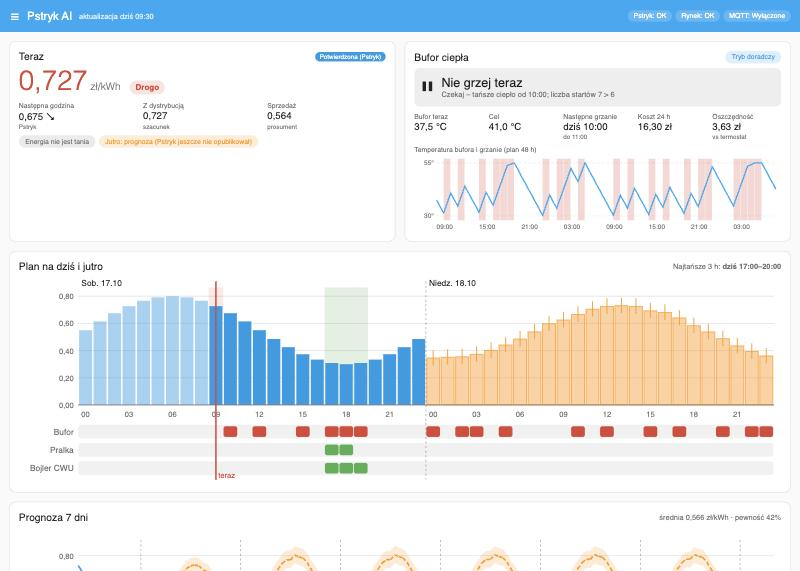
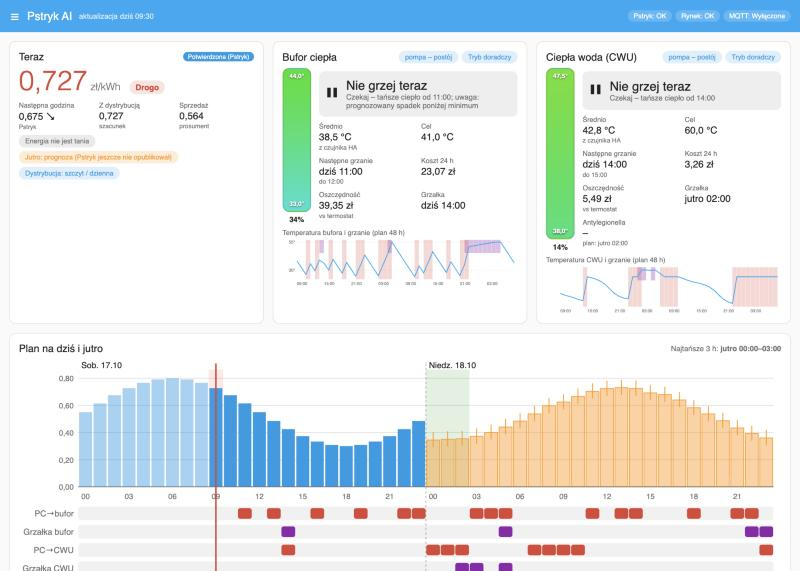
Docs for v0.4.0: heat storages, CWU, spending, MQTT commands, Loxone

diff --git a/docs/HEAT_STORAGES.md b/docs/HEAT_STORAGES.md
@@ -1,0 +1,72 @@
+# Heat storages, heaters and hot water (CWU)
+
+Every feature below is **off by default** and can be switched on in *Configure* (options) – and most of them also at runtime with a
+switch entity. A feature switched off in the options cannot be switched on by its runtime switch.
+
+## 1. Buffer with top and bottom sensors
+*Configure → Thermal buffer*
+
+| Option | Meaning |
+|---|---|
+| Buffer TOP – HA sensor / exact MQTT topic / JSON key | required (migrated from the former single "buffer temperature" option) |
+| Buffer BOTTOM – HA sensor / exact MQTT topic / JSON key | optional |
+| Heat pump maximum supply temperature | the heat pump cannot heat the storage above this (default 55 °C) |
+
+* Mean temperature = (top + bottom) / 2 drives the energy balance and the charge in % (`Naładowanie bufora`).
+* The comfort check uses the **top** layer (mean + half the measured difference), because the top feeds the heating circuits.
+* Without a bottom sensor the top temperature is used as before.
+* Upgrading from ≤ 0.3: the existing buffer topic/entity/JSON key are moved automatically to the *top* options (config entry 1.1 → 1.2).
+
+## 2. Auxiliary heater (electric or gas)
+*Configure → Buffer heater* and *Configure → CWU heater*
+
+| Option | Meaning |
+|---|---|
+| Use the heater | on/off (runtime switch *Grzałka bufora* / *Grzałka CWU*) |
+| Heater type | electric (efficiency ≈ 1.0) or gas boiler (efficiency ≈ 0.92, cost = gas price per kWh of fuel) |
+| Power steps | heat output stages in kW, e.g. `2,4,6` |
+| Maximum temperature | optional, may be higher than the heat-pump limit (legionella) |
+| Command topic + format | exact topic for Loxone; `1/0` or power in kW; **only published when advisory mode is off** |
+| State topic + JSON key | optional measured state/power of the heater (energy and cost tracking) |
+
+Each hour the optimiser chooses heat pump, heater stage, both or nothing by the cost of *delivered heat*:
+heat pump `price / COP`, electric `price / efficiency`, gas `gas price / efficiency`. Typical results: the element runs at
+negative/very low prices, in hard frost when the COP collapses, or to reach temperatures above the heat-pump limit.
+
+## 3. Hot-water tank (CWU)
+*Configure → Hot water (CWU)*
+
+| Option | Meaning |
+|---|---|
+| Top / bottom sensors | like the buffer |
+| Volume, min/max/target | tank parameters |
+| Ready times + required temperature | e.g. `06:00,19:00` at ≥ 45 °C – the plan guarantees the top layer at these times |
+| Hot-water use per day | litres at 45 °C, distributed with a typical daily profile (or the learned profile) |
+| Heat pump for CWU | `valve` – one heat pump with a switching valve serves the buffer *or* CWU each hour; `none` – CWU is heated only by its heater |
+| CWU priority | CWU is planned first; the buffer gets the remaining heat-pump hours |
+| Valve command topic | optional; payload `buffer` / `dhw` / `idle`; only in control mode |
+| Legionella cycle | reach the legionella temperature (default 60 °C) every N days (default 7), at the cheapest time before the deadline; the heater is used above the heat-pump limit |
+
+Planning ("priority-sequential MPC"): the priority storage is optimised first with the heat pump available every hour; the other storage is
+then optimised with the heat pump only in the remaining hours and with the electric power left under the connection limit.
+
+## 4. Connection power limit
+*Configure → Power limit and metering*: limit in kW, typical base load, optional heat-pump power reading (entity or MQTT, W or kW).
+The heat pump + heaters of both storages + device schedules never exceed the limit in the plan.
+
+## 5. Measured consumption
+With a heat-pump power reading (and heater state topics) the integration integrates energy every update and values it at the current
+price: *Zużycie/Koszt pompy ciepła dziś*, *Zużycie grzałek dziś* (+ month totals in attributes).
+
+## 6. Learning (optional)
+*Configure → Learning*
+* **Heat demand and losses**: from hours without heating (needs a power reading, otherwise the plan is used to detect idle hours),
+  fits building demand per K and standby losses (non-negative least squares).
+* **Hot-water profile**: average draw per hour of day from CWU temperature drops.
+* **COP**: measured/model COP ratio in heat-pump hours (needs power metering).
+* **Use learned values**: applied only after enough samples (≥ 36 hours, COP ≥ 12) and plausibility checks. Results: *Uczenie parametrów*.
+
+## 7. Safety
+* Advisory mode is the default: recommendations only, no commands to your topics.
+* Commands (heaters, valve) are never retained; a missing/stale temperature puts that storage in `fallback` → heaters `0`, valve `idle`.
+* Hardware thermostats, safety temperature limiters and manufacturer limits must stay in Loxone / the devices.

diff --git a/README.md b/README.md
@@ -1,6 +1,6 @@
 # Pstryk AI – Energy Intelligence & Optimization
 
-[![hacs](https://img.shields.io/badge/HACS-Custom-41BDF5.svg)](https://hacs.xyz) ![version](https://img.shields.io/badge/version-0.3.0-blue)
+[![hacs](https://img.shields.io/badge/HACS-Custom-41BDF5.svg)](https://hacs.xyz) ![version](https://img.shields.io/badge/version-0.4.0-blue)
 
 Home Assistant integration for Polish [Pstryk.pl](https://pstryk.pl) customers. It combines **confirmed Pstryk prices** with public market,
 power-system and weather data to build a **rolling 7-day (168 h) probabilistic price forecast**, finds the cheapest periods, plans flexible
@@ -21,6 +21,12 @@ loads and a **heat-pump buffer**, and publishes everything to Home Assistant and
   P10/P50/P90, confidence, live accuracy tracking.
 * Optimisation: cheapest windows across midnight/days, cheapest N hours, most expensive periods, uncertainty-aware postponement,
   device profiles with min run/off times (dynamic programming), thermal buffer MPC with COP(T_out, T_supply) and heat losses.
+* **Heat storages (v0.4)**: buffer and hot-water tank (CWU) with top/bottom sensors, electric/gas heaters with power steps, shared heat
+  pump with switching valve and CWU priority, ready-by times, legionella cycle, connection power limit – all optional.
+* **Pstryk spending**: today, yesterday, this month, month projection, previous month, last 12 months, cost breakdown; optional import
+  into Home Assistant long-term statistics (Energy dashboard).
+* Distribution tariff zones (G11/G12/G12w/G13) and optimisation on the all-in price; PV self-consumption; learning of heat demand,
+  losses, hot-water profile and COP; measured heat-pump consumption and cost; notifications; MQTT heartbeat.
 * **Temperatures from exact MQTT topics** (e.g. published by Loxone): buffer, outdoor and per-device values (DHW tank, EV SOC) with
   JSON-key support, staleness protection and automatic re-planning; devices that already reached their target are not scheduled.
 * Event-aware scheduler: 00:05 rollover, 06:00/18:00 weather, 10:45 Fixing I, **13:00 main calculation**, retries until Pstryk confirms,
@@ -35,7 +41,7 @@ source, the 48-hour plan (prices, cheapest window, buffer heating and device sch
 P10–P90 range, the buffer decision with the planned temperature, device schedules, meter data, forecast quality and data-source status.
 
 ![Pstryk AI panel](docs/images/panel.jpg)
-![Pstryk AI panel – forecast](docs/images/panel-forecast.jpg)
+![Pstryk AI panel – spending](docs/images/panel-spends.jpg)
 
 ## Measured forecast quality
 Rolling-origin backtest on public data (97 origins, 2026): MAE ≈ 85–95 PLN/MWh for days 1–7 with PSE + weather inputs vs 125–136 PLN/MWh
@@ -49,7 +55,7 @@ for the seasonal baseline. Read the caveats in [docs/FORECASTING.md](docs/FORECA
 ## Documentation
 [Installation](docs/INSTALLATION.md) · [Configuration](docs/CONFIGURATION.md) · [Architecture](docs/ARCHITECTURE.md) ·
 [Data sources & licenses](docs/API_SOURCES.md) · [MQTT topics](docs/MQTT_TOPICS.md) · [Forecasting](docs/FORECASTING.md) ·
-[Optimization](docs/OPTIMIZATION.md) · [Troubleshooting](docs/TROUBLESHOOTING.md) · [Research](docs/RESEARCH.md) ·
+[Optimization](docs/OPTIMIZATION.md) · [Heat storages & CWU](docs/HEAT_STORAGES.md) · [Troubleshooting](docs/TROUBLESHOOTING.md) · [Research](docs/RESEARCH.md) ·
 [Loxone example](examples/loxone.md) · [Changelog](CHANGELOG.md)
 
 ## Safety

diff --git a/CHANGELOG.md b/CHANGELOG.md
@@ -2,6 +2,29 @@
 
 All notable changes are documented here. The project follows [Semantic Versioning](https://semver.org/).
 
+## [0.4.0] – 2026-10-17
+All new features are optional and switchable (options; most also with runtime switches).
+### Added
+- Buffer **top/bottom** temperature sensors (MQTT topic or HA entity); automatic migration of the former buffer sensor to *top*
+  (config entry 1.1 → 1.2); stratification-aware comfort; charge % and stored energy.
+- **Auxiliary heaters** for buffer and CWU: electric or gas, power steps, efficiency, gas price, max temperature, command topic
+  (`1/0` or kW, control mode only), state topic for metering; combined heat-pump + heater optimisation by cost of delivered heat.
+- **Hot-water tank (CWU)**: second storage with top/bottom sensors, ready times, daily use profile, shared heat pump with switching
+  valve and priority, valve command topic, **legionella** cycle.
+- **Connection power limit** across heat pump, heaters and device schedules.
+- **Distribution tariff zones** (G11/G12/G12w/G13) and optimisation on the all-in price; zone sensor.
+- **PV self-consumption** (production forecast from radiation, surplus valued at the sell price).
+- **Learning** of building demand, storage losses, hot-water profile and COP; measured heat-pump/heater consumption and cost.
+- **Pstryk spending**: yesterday, previous month, last 12 months (monthly history), average daily cost, month projection, breakdown;
+  MQTT `spends/*`; optional import into HA long-term statistics.
+- **Notifications** (tomorrow's prices, negative prices, local-control fallback, stale data) and MQTT **heartbeat**.
+- Panel: storage cards with layer bar, heater/valve state, legionella, separate timeline lanes (heat pump → buffer/CWU, heaters, PV),
+  spending section with daily/monthly charts.
+### Changed
+- Storage optimiser generalised (heat-pump availability per hour, heater stages, power cap, ready/legionella constraints, PV pricing);
+  heavy planning runs in an executor thread.
+- Daily totals sensors use `total_increasing` (Energy dashboard compatible).
+
 ## [0.3.0] – 2026-10-17
 ### Added
 - **Temperatures from exact MQTT topics**: buffer temperature, outdoor temperature (options *Thermal buffer*) and per-device values

diff --git a/docs/MQTT_TOPICS.md b/docs/MQTT_TOPICS.md
@@ -31,11 +31,27 @@ Publication uses the broker configured in Home Assistant's MQTT integration. Pre
 | `optimizer/buffer/next_start`, `next_stop` | scalar ISO | yes | first heating block |
 | `optimizer/buffer/expected_cost` | scalar PLN | yes | next 24 h |
 | `optimizer/buffer/schedule` | JSON | yes | full plan incl. per-hour steps |
+| `optimizer/buffer/heater/should_run`, `optimizer/buffer/heater/power` | scalar | no / yes | buffer heater recommendation (kW) |
+| `optimizer/buffer/soc` | scalar % | yes | buffer charge |
+| `optimizer/dhw/should_heat` | scalar 1/0 | **no**, expiry | hot-water heat-pump recommendation |
+| `optimizer/dhw/mode`, `target_temperature`, `next_start`, `schedule`, `soc` | scalar/JSON | yes | hot-water plan |
+| `optimizer/dhw/heater/should_run`, `optimizer/dhw/heater/power` | scalar | no / yes | hot-water heater |
+| `optimizer/valve` | `buffer`/`dhw`/`idle` | no | heat-pump switching valve (shared heat pump) |
+| `spends/summary`, `spends/daily`, `spends/monthly` | JSON | yes | Pstryk spending (today, yesterday, month, projection, 12 months, daily and monthly series) |
+| `heartbeat` | ISO time | no | every 60 s when enabled (watchdog) |
 | `status` | JSON | yes | providers, flags |
 | `availability` | `online`/`offline` | yes | `offline` on unload |
 | `forecast/status`, `forecast/confidence`, `forecast/last_update` | JSON/scalar | yes | model info |
 | `api/pstryk/status`, `api/tge/status`, `api/entsoe/status`, `api/pse/status`, `api/weather/status` | scalar | yes | `ok`, `error`, `rate_limited`, … |
 | `evcc/prices` (optional) | JSON list | yes | `[{"start","end","value"}]` (EVCC custom forecast tariff) |
+
+## Commands to your devices (control mode only)
+Exact topics you set in the heater / CWU options. Published **only when advisory mode is off**, never retained:
+
+| Option | Payload |
+|---|---|
+| `buffer_heater_command_topic`, `dhw_heater_command_topic` | `1`/`0` or power in kW (`2.0`) depending on the command format; `0` in fallback |
+| `dhw_valve_command_topic` | `buffer`, `dhw` or `idle` (`idle` in fallback) |
 
 ## Renaming or disabling topics
 *Settings → Devices & services → Pstryk AI → Configure → MQTT topics* lists all 46 topics. Each field is the topic name **relative to

diff --git a/docs/CONFIGURATION.md b/docs/CONFIGURATION.md
@@ -4,7 +4,7 @@ The wizard has 9 steps; every option except the API key stays editable via *Conf
 
 | Step | Options |
 |---|---|
-| 1 Pstryk | API key (validated), prosumer, VAT, energy margin (net PLN/kWh), excise (default 0.005), variable distribution (net), *Pstryk price includes distribution*, *local tariff auto-calibration* (opt-in) |
+| 1 Pstryk | API key (validated), spending (daily/monthly, 12-month history, import to HA statistics), prosumer, VAT, energy margin (net PLN/kWh), excise (default 0.005), variable distribution (net), *Pstryk price includes distribution*, *local tariff auto-calibration* (opt-in) |
 | 2 Location | HA location or manual coordinates |
 | 3 Market data | source `entsoe` (recommended) / `tge` (experimental) / `pse_rce` (proxy), ENTSO-E token, PSE on/off, TGE on/off, EUR/PLN rate |
 | 4 Weather | model (ECMWF IFS 0.25°, ICON, GFS, best match), refresh interval, history length |
@@ -18,7 +18,14 @@ Additional options (menu only):
 
 | Option | Purpose |
 |---|---|
-| MQTT topics | rename (relative or absolute) or disable each of the 46 topics |
+| Distribution tariff | G11/G12/G12w/G13 zone rates and hours; optimise on the price including distribution |
+| Buffer heater / CWU heater | electric or gas heater with power steps, command and state topics |
+| Hot water (CWU) | second storage: sensors, ready times, daily use, valve/priority, legionella |
+| Power limit and metering | connection limit, base load, heat-pump power reading |
+| PV self-consumption | kWp, performance ratio, base load |
+| Learning | heat demand/losses, hot-water profile, COP; use learned values |
+| Notifications | tomorrow's prices, negative prices, local-control fallback, stale data; notify service; MQTT heartbeat |
+| MQTT topics | rename (relative or absolute) or disable each of the 62 topics |
 | Panel | show/hide the *Pstryk AI* sidebar panel |
 
 ## Price-source precedence

diff --git a/README_PL.md b/README_PL.md
@@ -44,6 +44,20 @@ licznik i saldo, jakość prognozy oraz status źródeł danych. Działa w trybi
 
 ![Panel Pstryk AI](docs/images/panel.jpg)
 
+## Nowości v0.4 (wszystko opcjonalne, włączane w opcjach)
+* **Bufor z czujnikiem góra/dół** – dotychczasowy czujnik bufora jest automatycznie przeniesiony na „górę”; dół jest opcjonalny.
+  Plan liczy energię i naładowanie (%) ze średniej, a komfort z górnej warstwy.
+* **Grzałka** bufora i/lub CWU – elektryczna lub gazowa, stopnie mocy (np. 2,4,6 kW), własny temat sterowania (1/0 lub kW) i temat stanu.
+  Optymalizator wybiera co godzinę: pompa, grzałka, oba albo nic – według kosztu dostarczonego ciepła.
+* **CWU** – drugi zasobnik: czujniki góra/dół, godziny gotowości (np. 06:00, 19:00 ≥ 45 °C), dobowe zużycie, wspólna pompa z zaworem
+  i priorytetem CWU, temat sterowania zaworem, cykl **antylegionella** (np. 60 °C co 7 dni w najtańszej porze).
+* **Limit mocy przyłącza**, **taryfa dystrybucyjna G11/G12/G12w/G13** (optymalizacja wg ceny z dystrybucją), **autokonsumpcja PV**,
+  **uczenie** (zapotrzebowanie, straty, profil CWU, COP), **pomiar zużycia pompy**, **powiadomienia**, **heartbeat MQTT**.
+* **Wydatki Pstryk**: dziś, wczoraj, ten miesiąc, prognoza miesiąca, poprzedni miesiąc, ostatnie 12 miesięcy, składniki kosztu;
+  opcjonalny import do statystyk HA (panel Energia). Szczegóły: [docs/HEAT_STORAGES.md](docs/HEAT_STORAGES.md).
+
+![Wydatki](docs/images/panel-spends.jpg)
+
 ## Pierwszeństwo źródeł cen
 `ACTUAL_PSTRYK` (potwierdzona) > `PUBLISHED_TGE` (opublikowana cena giełdowa przeliczona taryfą – szacunek) > `MODEL_FORECAST` >
 `FALLBACK_FORECAST` (model bazowy) > `UNAVAILABLE`. Każdy sensor i rekord MQTT ma pole `source` i `quality`.

diff --git a/docs/API_SOURCES.md b/docs/API_SOURCES.md
@@ -8,6 +8,16 @@
 | TGE RDN website | Fixing I/II prices (experimental, opt-in) | public HTML | Check TGE terms before enabling; no redistribution; minimal requests. |
 | Open-Meteo | local and national weather, historical forecasts | public | Non-commercial use free; attribution “Weather data by Open-Meteo.com” (CC BY 4.0). Models: ECMWF, DWD ICON, NOAA GFS. |
 
+## Pstryk spending (v0.4)
+* Daily frames for the current **and previous** month are fetched in the existing daily request (`resolution=day`, `for_tz=Europe/Warsaw`) –
+  no extra request.
+* Monthly totals for the last 12 months: one small `resolution=month` request per day, only when a spare request is available and never
+  while waiting for tomorrow's prices (budget stays ≤ 2 requests/hour).
+* Fields used (all optional): `energy_import_cost`, `energy_sold_value`, `energy_balance_value`, breakdown `energy_cost_net`,
+  `var_dist_cost_net`, `fix_dist_cost_net`, `service_cost_net`, `power_fee_cost_net`, `excise`, `vat`.
+* Your own billing totals are stored locally (400 days / 36 months) for history; optional import into HA long-term statistics
+  (`pstryk_ai:import_cost`, `pstryk_ai:energy_import`, `pstryk_ai:energy_export`, `pstryk_ai:sold_value`) for the Energy dashboard.
+
 ## Live verification (2026-10-17)
 
 | Source | Result |

diff --git a/examples/loxone.md b/examples/loxone.md
@@ -51,3 +51,20 @@ HeatRequest   = HeatRequest AND NOT OverTempAlarm AND NOT FaultHP   // hard inte
 
 ## 4. Price-based loads
 `VI_PstrykCheap` can enable non-critical loads (e.g. DHW boost) with a minimum on-time block in Loxone.
+
+
+## 5. v0.4: heaters, hot water and valve (control mode)
+| Topic (set in options) | Loxone virtual input | Use |
+|---|---|---|
+| `loxone/bufor/grzalka/set` | `VI_BuforGrzalka` (digital or analog kW) | enable the buffer heater stage – **AND** with the local thermostat/STB |
+| `loxone/cwu/grzalka/set` | `VI_CWUGrzalka` | CWU heater (also legionella) |
+| `loxone/pc/zawor/set` | `VTI_Zawor` (`buffer`/`dhw`/`idle`) | 3-way valve request; `idle` = keep the local logic |
+| `pstryk_ai/home/heartbeat` | `VTI_PstrykHeartbeat` | watchdog: if no message for 3 min, ignore all Pstryk AI commands |
+
+Publish to Pstryk AI: buffer top/bottom, CWU top/bottom, heat-pump power (W or kW) – e.g. `loxone/bufor/gora`, `loxone/bufor/dol`,
+`loxone/cwu/gora`, `loxone/cwu/dol`, `loxone/pc/moc`.
+
+```
+HeaterAllowed = Valid AND VI_BuforGrzalka AND BufferTop < BufferMaxLocal AND NOT STB_Alarm
+ValveRequest  = Valid ? VTI_Zawor : "local"
+```
